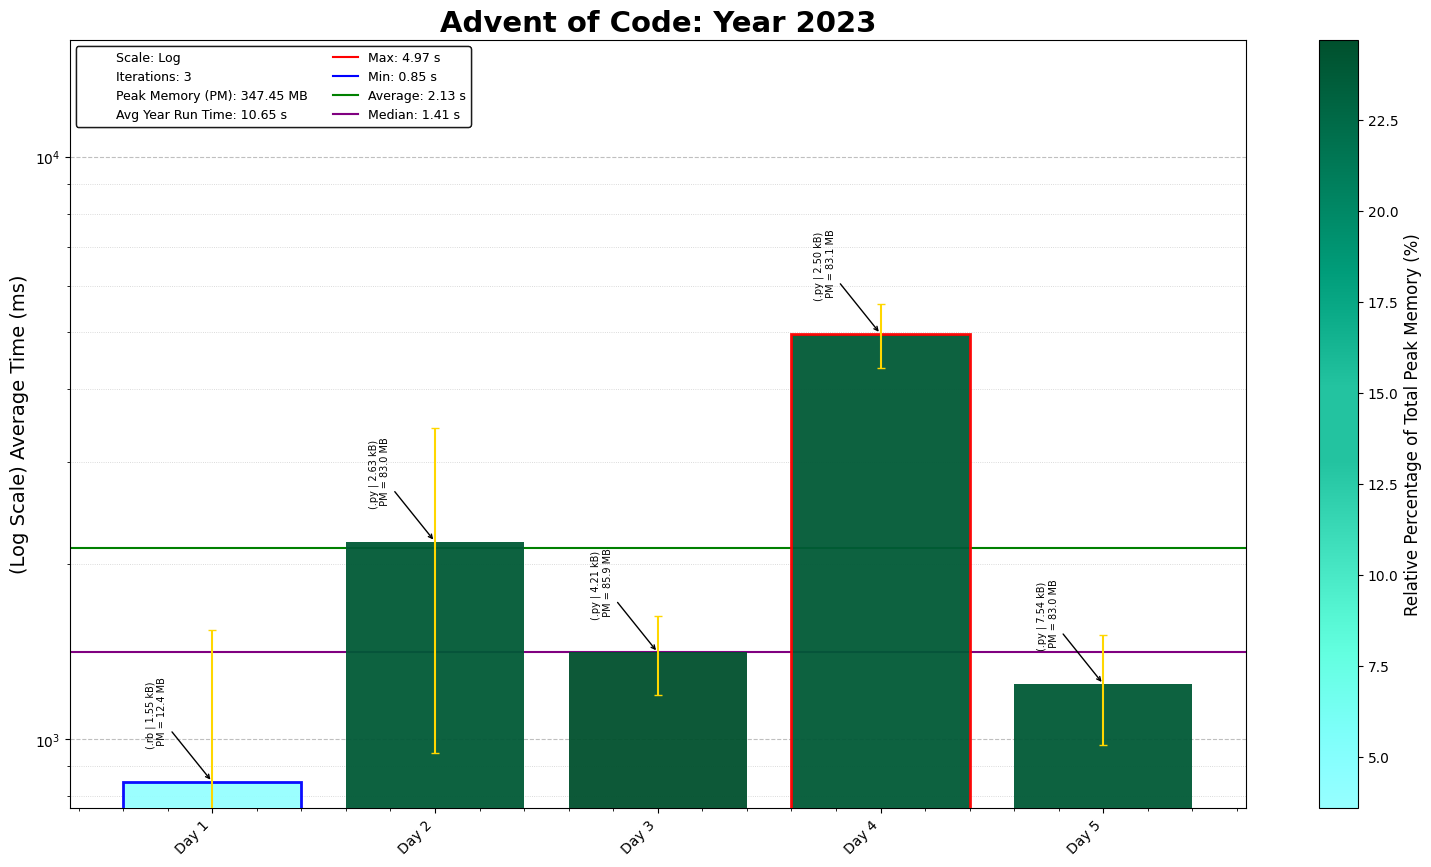
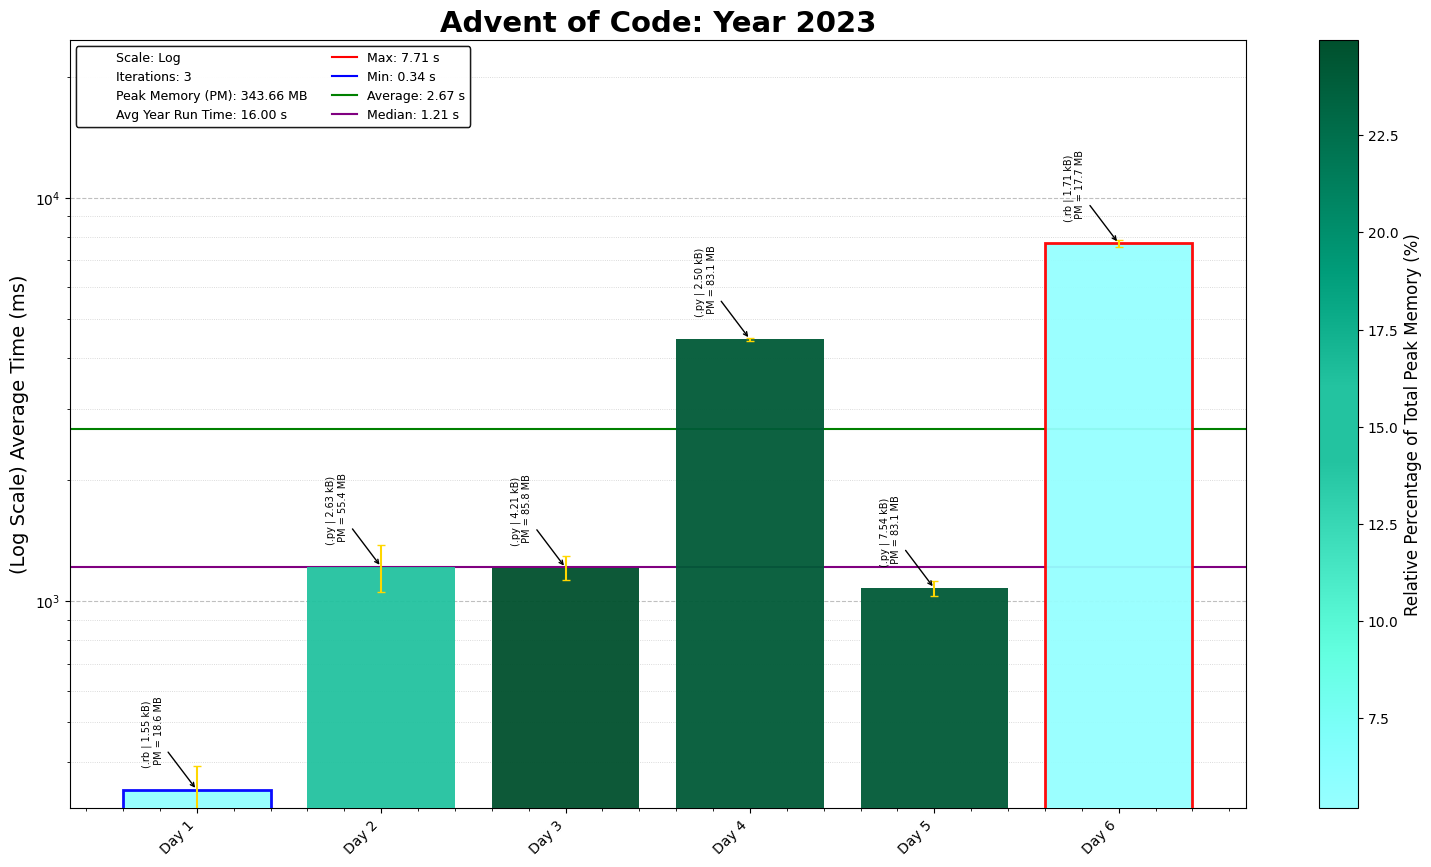
2024 Day 06

diff --git a/2023/06/Alt2023Day06.py b/2023/06/Alt2023Day06.py
@@ -1,0 +1,55 @@
+"""Advent of Code - Day 6, Year 2023
+Solution Started: Dec 24, 2024
+Puzzle Link: https://adventofcode.com/2023/day/6
+Solution by: abbasmoosajee07
+Brief: [Winning a boat race]
+"""
+
+#!/usr/bin/env python3
+
+import os, re, copy,time
+import numpy as np
+import pandas as pd
+import matplotlib.pyplot as plt
+start_time = time.time()
+# Load the input data from the specified file path
+D06_file = "Day06_input.txt"
+D06_file_path = os.path.join(os.path.dirname(os.path.abspath(__file__)), D06_file)
+
+# Read and sort input data into a grid
+with open(D06_file_path) as file:
+    input_data = file.read().strip().split('\n')
+
+def parse_input(race_info: list) -> dict:
+    race_dict = {}
+    time_list = list(re.findall(r'\d+',race_info[0]))
+    distance_list = list(re.findall(r'\d+',race_info[1]))
+    for pos, time in enumerate(time_list):
+        race_dict[int(time)] = int(distance_list[pos])
+    full_time = ''.join(time_list)
+    full_distance = ''.join(distance_list)
+    full_race = (int(full_time), int(full_distance))
+    return race_dict, full_race
+
+def win_race(time: int, distance: int) -> int:
+    total_wins = 0
+    for press_button in range(time):
+        speed = press_button * 1
+        final_distance = (time - press_button) * speed
+        if final_distance > distance:
+            total_wins += 1
+        # print(f"{press_button=} {speed=} {final_distance} {total_wins=}")
+    return total_wins
+
+test_input = ['Time:      7  15   30', 'Distance:  9  40  200']
+races, long_race = parse_input(input_data)
+all_wins = []
+for race_time, distance in races.items():
+    race_win = win_race(race_time, distance)
+    if race_win != 0:
+        all_wins.append(race_win)
+print("Part 1:", np.prod(all_wins))
+
+big_race_wins = win_race(long_race[0], long_race[1])
+print("Part 2:", big_race_wins)
+# print(time.time() - start_time)

diff --git a/2023/06/2023Day06.rb b/2023/06/2023Day06.rb
@@ -1,0 +1,65 @@
+=begin
+Advent of Code - Day 6, Year 2023
+Solution Started: Dec 25, 2024
+Puzzle Link: https://adventofcode.com/2023/day/6
+Solution by: abbasmoosajee07
+Brief: [Winning a boat race]
+=end
+
+#!/usr/bin/env ruby
+
+require 'pathname'
+
+# Define file name and extract complete path to the input file
+D06_file = "Day06_input.txt"
+D06_file_path = Pathname.new(__FILE__).dirname + D06_file
+
+# Read the input data
+input_data = File.readlines(D06_file_path).map(&:strip)
+
+def parse_input(race_info)
+  race_dict = {}
+  time_list = race_info[0].scan(/\d+/).map(&:to_i)
+  distance_list = race_info[1].scan(/\d+/).map(&:to_i)
+
+  time_list.each_with_index do |time, index|
+    race_dict[time] = distance_list[index]
+  end
+
+  full_time = time_list.join.to_i
+  full_distance = distance_list.join.to_i
+  full_race = [full_time, full_distance]
+
+  [race_dict, full_race]
+end
+
+def win_race(time, distance)
+  total_wins = 0
+
+  (0...time).each do |press_button|
+    speed = press_button * 1
+    final_distance = (time - press_button) * speed
+
+    total_wins += 1 if final_distance > distance
+    # Uncomment the following line for debugging:
+    # puts "press_button=#{press_button}, speed=#{speed}, final_distance=#{final_distance}, total_wins=#{total_wins}"
+  end
+
+  total_wins
+end
+
+# Test input
+test_input = ['Time:      7  15   30', 'Distance:  9  40  200']
+races, long_race = parse_input(input_data)
+
+all_wins = []
+races.each do |time, distance|
+  race_win = win_race(time, distance)
+  all_wins << race_win if race_win != 0
+end
+
+part1_result = all_wins.reduce(1, :*) # Product of all wins
+puts "Part 1: #{part1_result}"
+
+big_race_wins = win_race(long_race[0], long_race[1])
+puts "Part 2: #{big_race_wins}"
